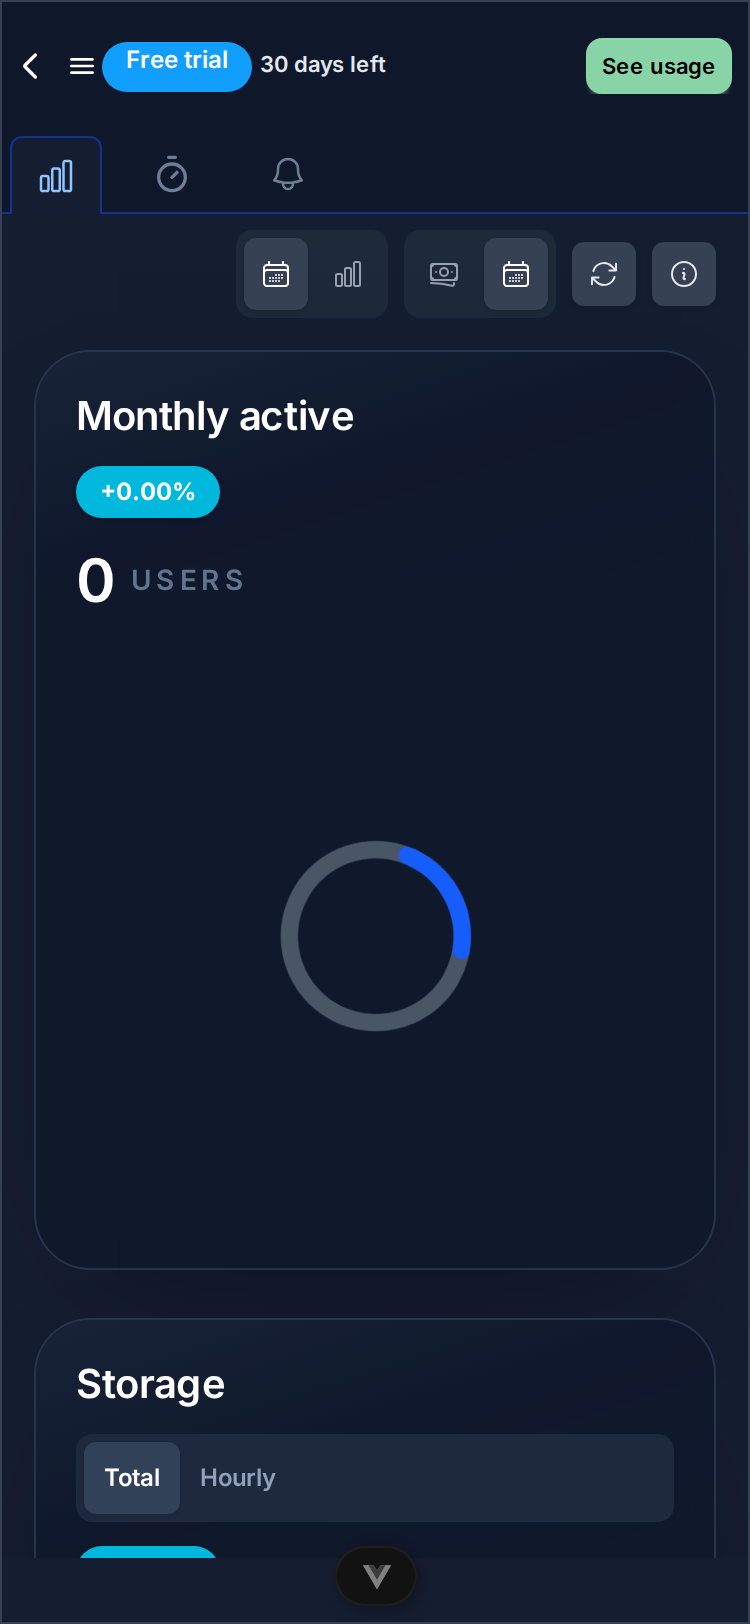
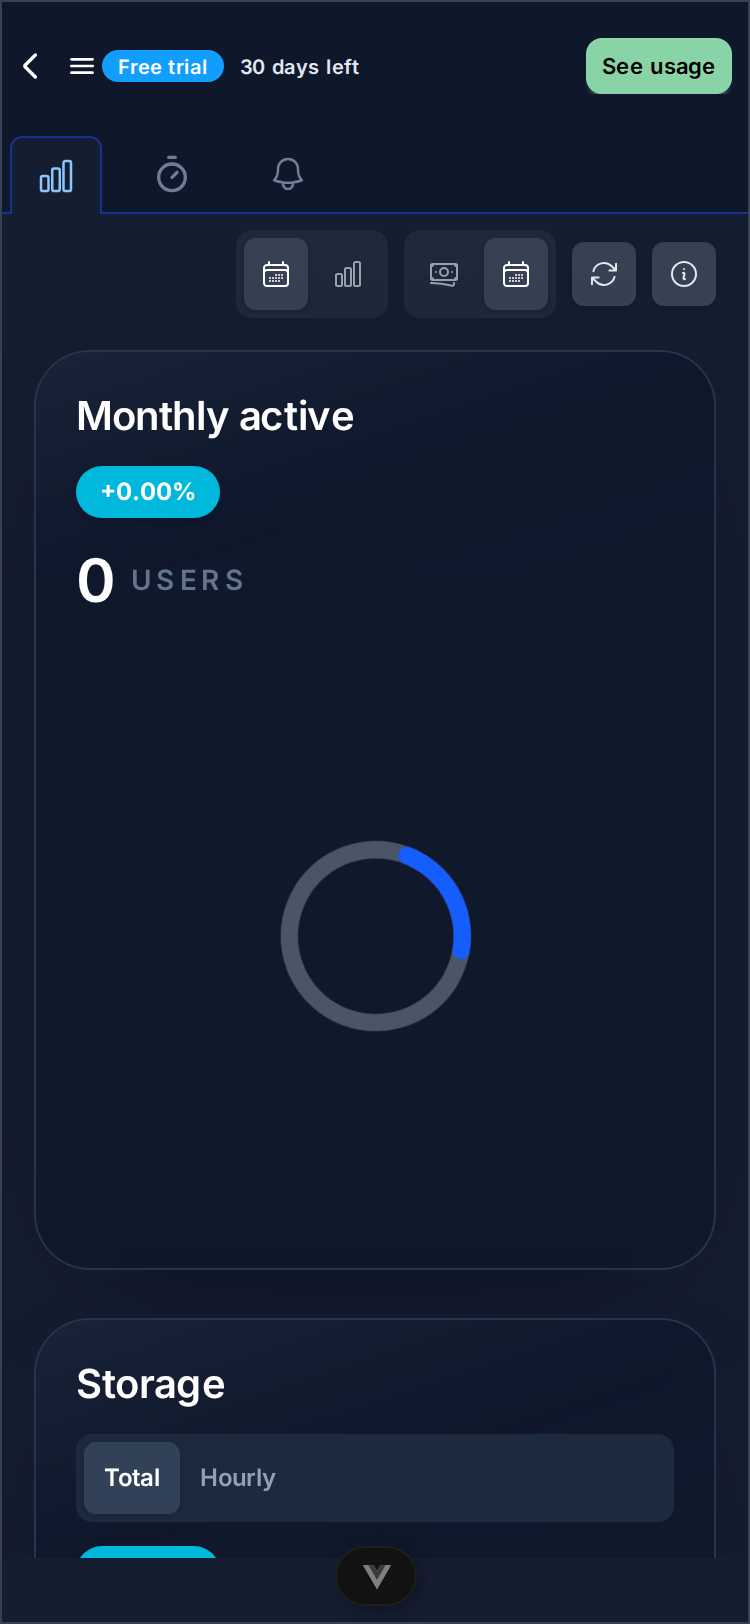
fix(frontend): grid navbar billing row to prevent pill overlap
Use a 3-column grid on Capacitor navbar inline banner so Free trial,
days-left, and See usage stay in separate tracks with gap-x-2. Recapture
after screenshot at 375x812.

Changed region(s): [[0.1533, 0.0, 0.5213, 0.0616]]

diff --git a/src/components/Banner.vue b/src/components/Banner.vue
@@ -97,26 +97,34 @@ const bannerColor = computed(() => {
     return ''
   return 'd-btn-success text-black'
 })
+
+const isNavbarInline = computed(() => props.desktop && isMobile)
 </script>
 
 <template>
   <!-- Desktop inline version (also used in mobile navbar via Navbar.vue) -->
   <div
     v-if="props.desktop && showBanner"
-    class="flex min-w-0 flex-nowrap items-center gap-1 overflow-hidden max-lg:w-full lg:ml-auto lg:max-w-full lg:gap-3"
+    class="min-w-0 overflow-hidden max-lg:w-full lg:ml-auto lg:flex lg:max-w-full lg:flex-nowrap lg:items-center lg:gap-3"
+    :class="isNavbarInline
+      ? 'grid w-full grid-cols-[minmax(0,auto)_minmax(0,1fr)_auto] items-center gap-x-2'
+      : 'flex flex-nowrap items-center gap-2'"
     data-test="org-billing-banner"
   >
     <component
       :is="showCta ? 'span' : 'a'"
       v-bind="showCta ? { role: 'status' } : { href: billingCtaHref }"
-      class="min-w-0 max-w-[38%] shrink truncate"
+      class="min-w-0 max-w-full overflow-hidden"
       :class="showCta ? '' : 'rounded-md focus-visible:outline-none focus-visible:ring-2 focus-visible:ring-inset focus-visible:ring-azure-500'"
       :aria-label="statusAriaLabel"
       :title="statusLabel"
     >
       <span
-        class="d-badge d-badge-sm block max-w-full truncate font-semibold"
-        :class="badgeClass"
+        class="block max-w-full truncate font-semibold"
+        :class="[
+          badgeClass,
+          isNavbarInline ? 'rounded-full px-2 py-0.5 text-[10px] leading-tight' : 'd-badge d-badge-sm',
+        ]"
         data-test="org-billing-status"
       >
         {{ statusLabel }}
@@ -124,8 +132,11 @@ const bannerColor = computed(() => {
     </component>
     <span
       v-if="statusDetail"
-      class="min-w-0 flex-1 truncate text-[11px] font-semibold leading-tight sm:text-xs lg:text-sm"
-      :class="status.trialDaysLeft <= 7 ? 'text-amber-700 dark:text-amber-300' : 'text-slate-800 dark:text-slate-200'"
+      class="min-w-0 truncate font-semibold leading-tight"
+      :class="[
+        isNavbarInline ? 'text-[10px]' : 'flex-1 text-[11px] sm:text-xs lg:text-sm',
+        status.trialDaysLeft <= 7 ? 'text-amber-700 dark:text-amber-300' : 'text-slate-800 dark:text-slate-200',
+      ]"
       data-test="org-billing-detail"
       :title="statusDetail"
       role="status"
@@ -136,7 +147,7 @@ const bannerColor = computed(() => {
     <a
       v-if="showCta"
       :href="billingCtaHref"
-      class="shrink-0 whitespace-nowrap border-none d-btn d-btn-xs h-7 min-h-0 px-2 lg:d-btn-sm"
+      class="shrink-0 whitespace-nowrap border-none d-btn d-btn-xs h-7 min-h-0 px-2 text-[11px] lg:d-btn-sm lg:text-sm"
       :class="bannerColor"
       data-test="org-billing-cta"
     >
